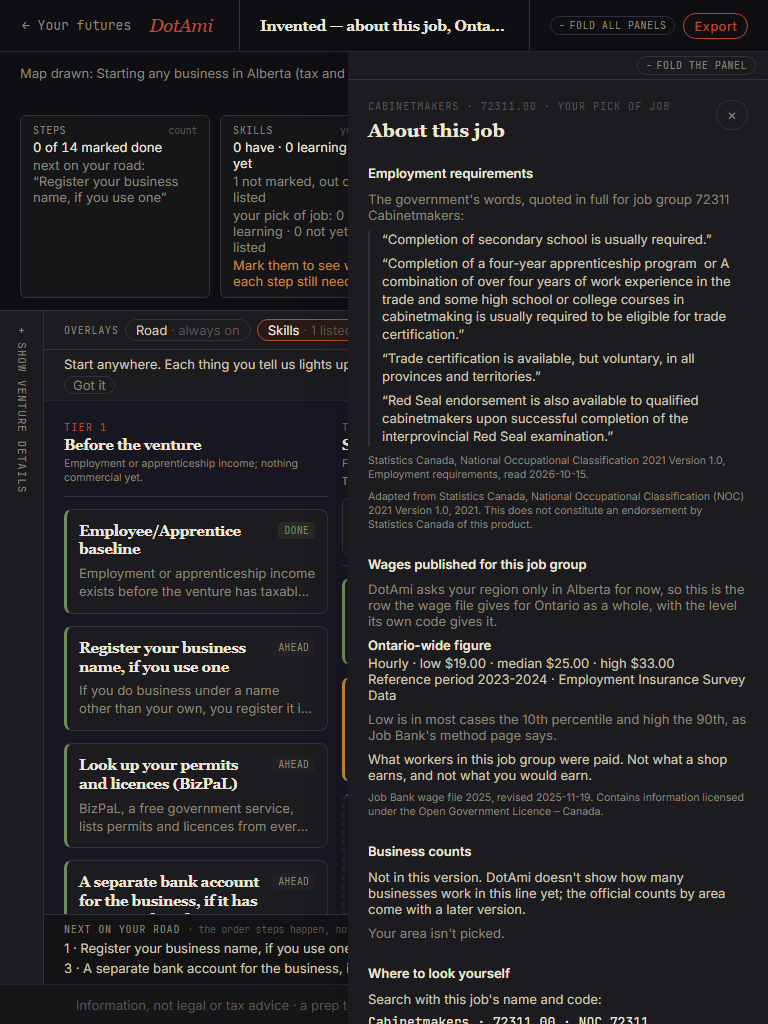
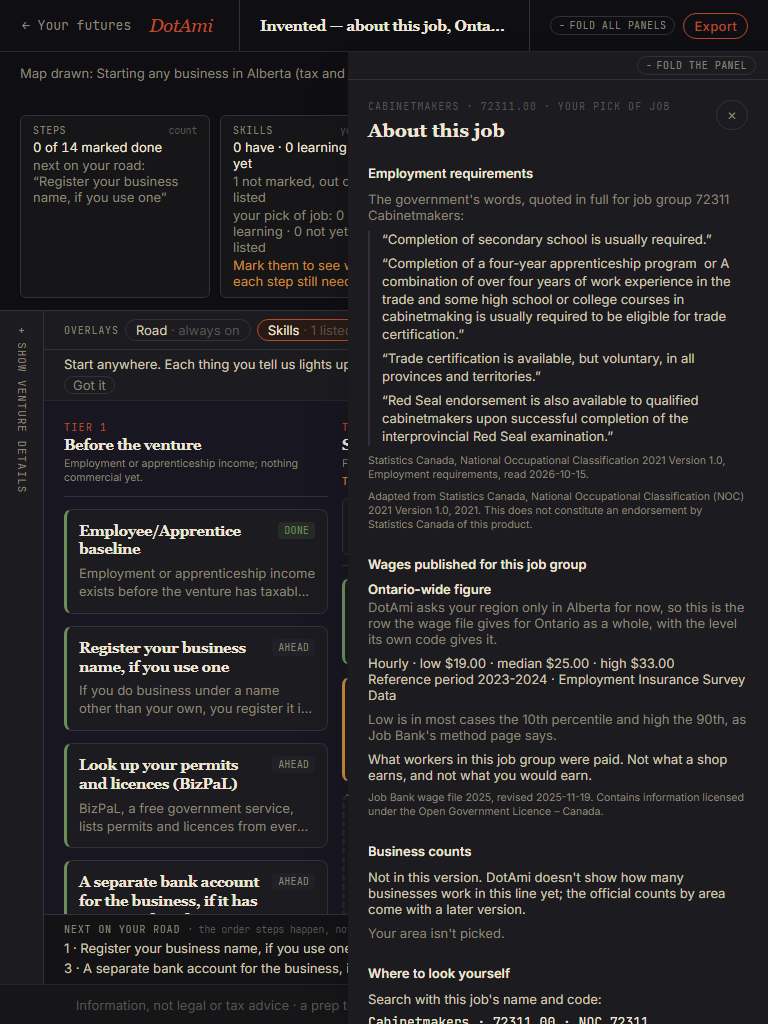
fix: About this job's which-row line sits under the wage row's label
The spec's row 2 puts "DotAmi asks your region only in Alberta for
now..." under the label outside Alberta; the panel drew it above the
label. The line now sits under the label in every case (row 2 gives
Alberta's "Your region: ..." lines no place, so they sit in the same
one), with a small gap before the figures; a row with no figures has no
label, so there it comes first. The spec's as-built notes say so.

A unit test reads the drawn lines in order for Ontario, Alberta with no
region, Calgary and Red Deer, and failed on the old panel. The unit
test's row slice now starts after the row's opening tag, so no piece of
the tag is read as text. The browser tests check the order in Ontario
and in Alberta, and Ontario's two links by their exact addresses (it
only counted them before). Screenshots retaken.

Changed region(s): [[0.4688, 0.5625, 0.9688, 0.6562]]

diff --git a/tests/about-job.spec.ts b/tests/about-job.spec.ts
@@ -85,9 +85,10 @@ function addressesIn(html: string): string[] {
 function drawn(view: AboutJobView, part?: string): string {
   let html = markup(view);
   if (part) {
-    const start = html.indexOf(`data-about-row="${part}"`);
-    const end = html.indexOf("data-about-row=", start + 10);
-    html = html.slice(start, end === -1 ? undefined : end);
+    // From the end of the row's opening tag (so no piece of that tag is read as text) to the next row's tag.
+    const start = html.indexOf(">", html.indexOf(`data-about-row="${part}"`)) + 1;
+    const end = html.indexOf("data-about-row=", start);
+    html = html.slice(start, end === -1 ? undefined : html.lastIndexOf("<", end));
   }
   // Read token by token (a tag, or the text between two tags), never by stripping tags out of the markup: only
   // the text between tags is kept, its entities decoded, and a block's closing tag ends a line.
@@ -303,6 +304,28 @@ describe("Wages published for this job group: the row the spec names, labelled b
     ]);
     expect(block.then?.row?.geography.code).toBe("ER48");
     expect(block.then?.label).toBe("Alberta-wide figure");
+  });
+
+  it("the line saying which row this is sits under the row's label (spec row 2, Outside Alberta: Under the label)", () => {
+    const lines = (view: AboutJobView) => drawn(view, "wages").split("\n");
+    const ontario = lines(one("72311.00", "ON"));
+    expect(ontario.slice(0, 3)).toEqual([
+      "Wages published for this job group",
+      "Ontario-wide figure",
+      "DotAmi asks your region only in Alberta for now, so this is the row the wage file gives for Ontario as a whole, with the level its own code gives it.",
+    ]);
+    expect(lines(one("72311.00", "AB")).slice(0, 3)).toEqual(["Wages published for this job group", "Alberta-wide figure", "Your region isn't picked."]);
+    expect(lines(one("72311.00", "AB", "4830")).slice(0, 3)).toEqual([
+      "Wages published for this job group",
+      "Economic region: Calgary",
+      "Your region: Calgary (your pick)",
+    ]);
+    // A row with no figures has no label: the line comes first, then the row's own words.
+    expect(lines(one("72311.00", "AB", "4850")).slice(0, 3)).toEqual([
+      "Wages published for this job group",
+      "Your region: Red Deer (your pick)",
+      "Not published for Red Deer.",
+    ]);
   });
 
   it("outside Alberta: the row for the province or territory as a whole, labelled by its own code, with no Tradesecrets", () => {

diff --git a/components/cockpit/about-this-job-panel.tsx b/components/cockpit/about-this-job-panel.tsx
@@ -28,11 +28,17 @@ const PHONE_LINES = 5;
 
 const linkClass = "break-words text-body text-maple hover:underline";
 
-/** One wage block: the row's label, its lines, then the row a "not published" note points to. */
-function WageRows({ block, nested = false }: { block: WageBlock; nested?: boolean }) {
+/**
+ * One wage block: the row's label, the line saying which row this is (top block only, under the label as the
+ * spec's row 2 puts it; first when a row with no figures has no label), its lines, then the row a "not published"
+ * note points to.
+ */
+function WageRows({ block, context, nested = false }: { block: WageBlock; context?: string; nested?: boolean }) {
   return (
     <div className={nested ? "mt-1 border-l border-rule pl-3" : undefined} {...(block.row ? { "data-wage-row": block.row.geography.code } : {})}>
       {block.label ? <p className="font-semibold text-paper">{block.label}</p> : null}
+      {/* A gap under it, so the row's figures don't run on from the sentence. */}
+      {context ? <p className="mb-2 text-body text-stone">{context}</p> : null}
       {block.lines.map((line) => (
         <p key={line} className="text-body text-paper-dim">
           {line}
@@ -110,8 +116,7 @@ export function AboutThisJobPanel({ view, onClose }: { view: AboutJobView; onClo
       {/* 2. The wages Job Bank publishes for the group: the row's own level, period and method. */}
       <div className="mt-6 space-y-2" data-about-row="wages">
         <h3 className="font-semibold text-paper">{words.wages.heading}</h3>
-        <p className="text-body text-stone">{wageContextLine(view.wages.context)}</p>
-        <WageRows block={wages} />
+        <WageRows block={wages} context={wageContextLine(view.wages.context)} />
         {showsFigures(wages) ? <p className="text-body text-stone">{words.wages.lowHigh}</p> : null}
         <p className="text-body text-paper-dim">{words.wages.notYours}</p>
         <p className="text-small text-stone">

diff --git a/e2e/about-this-job.spec.ts b/e2e/about-this-job.spec.ts
@@ -165,8 +165,8 @@ test("Cabinetmakers on the apprentice road: the four rows in order, the governme
   expect(await textOf(wages)).toBe(
     [
       "Wages published for this job group",
-      "Your region isn't picked.",
       "Alberta-wide figure",
+      "Your region isn't picked.",
       "Hourly · low $18.00 · median $23.00 · high $30.00",
       "Reference period 2023-2024 · Employment Insurance Survey Data",
       "Low is in most cases the 10th percentile and high the 90th, as Job Bank's method page says.",
@@ -240,12 +240,19 @@ test("in Ontario: the row for Ontario as a whole, why it is that row, and no Tra
   await expect(panel(page)).toBeVisible();
 
   const wages = row(page, "wages");
-  await expect(wages).toContainText(
+  // The line saying why this row sits under the row's label (spec row 2, Outside Alberta: Under the label).
+  await expect(wages.locator("p").nth(0)).toHaveText("Ontario-wide figure");
+  await expect(wages.locator("p").nth(1)).toHaveText(
     "DotAmi asks your region only in Alberta for now, so this is the row the wage file gives for Ontario as a whole, with the level its own code gives it.",
   );
   await expect(wages.locator("[data-wage-row]")).toHaveAttribute("data-wage-row", "ER35");
   await expect(wages).not.toContainText(/province-wide/i);
   await expect(row(page, "links").getByRole("link")).toHaveCount(2);
+  // The same two fixed addresses as in Alberta, nothing added to them for Ontario or the job.
+  expect(await row(page, "links").getByRole("link").evaluateAll((as) => as.map((a) => a.getAttribute("href")))).toEqual([
+    "https://www.jobbank.gc.ca/trend-analysis/search-wages",
+    "https://bizpal.ca/",
+  ]);
   await expect(row(page, "links")).toContainText("Tradesecrets is Alberta's trade list, so it isn't listed for Ontario.");
   expect(await findingsIn(page, "72311")).toEqual([]);
 

diff --git a/CHANGELOG.md b/CHANGELOG.md
@@ -20,8 +20,8 @@ Format: [Keep a Changelog](https://keepachangelog.com/en/1.1.0/).
   earn" (a region with no figures says so, with the government's note and the row it points to); a plain line
   that business counts aren't in this version; and *Where to look yourself*: Job Bank's wage search, BizPaL and
   (in Alberta) Tradesecrets, each the site's own general page, with the job's name and code shown as text to
-  copy, never in a link. Outside Alberta the wage row is the one for the province or territory as a whole, said
-  why. It only shows: nothing on the road changes, and nothing new is kept. The government's files are read on
+  copy, never in a link. Outside Alberta the wage row is the one for the province or territory as a whole, with
+  why under the row's label. It only shows: nothing on the road changes, and nothing new is kept. The government's files are read on
   DotAmi's own server, so the large job and wage lists never load into the page. Until your region is kept
   (Pick a future's next step, its own change) the wage row is the province's own, saying your region isn't
   picked. The screen checks read it: no verdict, no time in DotAmi's own words (the government's quoted lines

diff --git a/docs/ui-spec/cockpit/about-this-job.md b/docs/ui-spec/cockpit/about-this-job.md
@@ -36,6 +36,11 @@ to see:
   words block wrote "a <province>-wide figure".
 - **A note that names no level** (the `N/A` rows with no note, and Canada's own physicians' note): only *Not
   published for <region>.*, as row 2 says; the government's note shows only when it names the level to look at.
+- **Where the which-row line sits.** Outside Alberta, *DotAmi asks your region only in Alberta for now…* is
+  drawn under the row's label, as row 2 says. Row 2 gives Alberta's lines (*Your region: Calgary (your pick)*,
+  *You said you don't know your region.*, *Your region isn't picked.*) no place, so they sit in the same one:
+  under the label, before the figures. A row with no figures has no label, so there the line comes first, then
+  *Not published for <region>.*
 - **Words the block didn't have**, each for a case the files hold: *The National Occupational Classification
   file has no Employment requirements lines for job group <noc>.*; *not published* for one figure a row leaves
   empty; *Reference period <period>* alone where the row names no method; *The wage file has no row for job group
